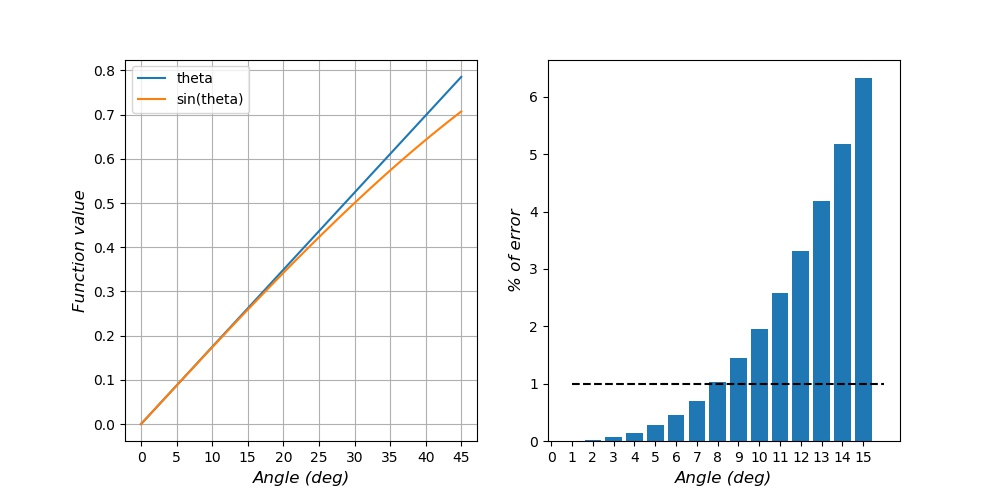
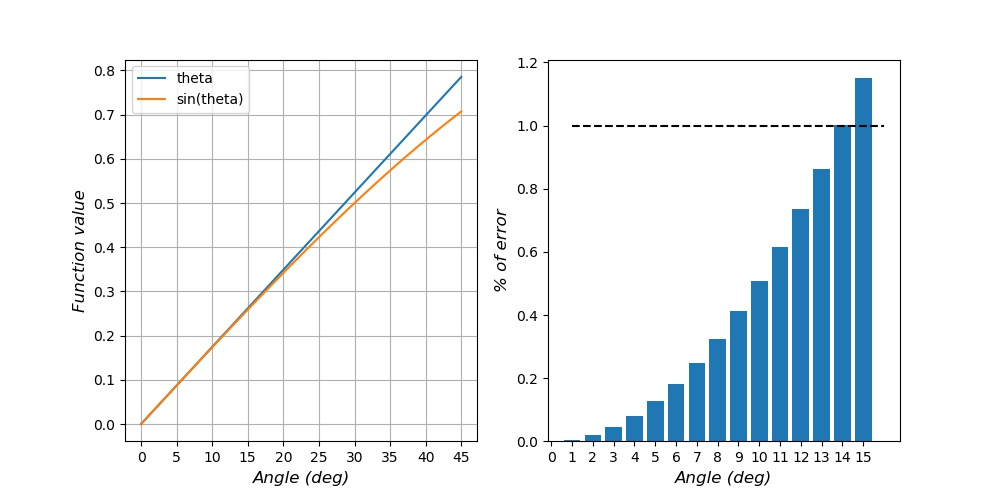
update code and images

diff --git a/sin_approx.py b/sin_approx.py
@@ -14,7 +14,7 @@ import matplotlib.pyplot as plt
 theta = np.linspace(0, 45, 46)
 y_sin = np.sin(theta*math.pi/180)
 
-err_sin = np.cumsum(abs(100*(y_sin[1:] - theta[1:]*math.pi/180) / y_sin[1:]))
+err_sin = abs(100*(y_sin[1:] - theta[1:]*math.pi/180) / y_sin[1:])
 
 fig, axes = plt.subplots(nrows=1, ncols=2, figsize=(10,5))
 
@@ -30,4 +30,4 @@ axes[1].bar(theta[1:16], err_sin[0:15])
 axes[1].hlines(y=1, xmin=theta[1], xmax=theta[16], linestyles='dashed')
 axes[1].set_xlabel('Angle (deg)', style='italic', fontsize='large')
 axes[1].set_ylabel('% of error', style='italic', fontsize='large')
-axes[1].set_xticks(ticks=np.linspace(0, 15, 16))
+axes[1].set_xticks(ticks=np.linspace(0, 16, 15))
